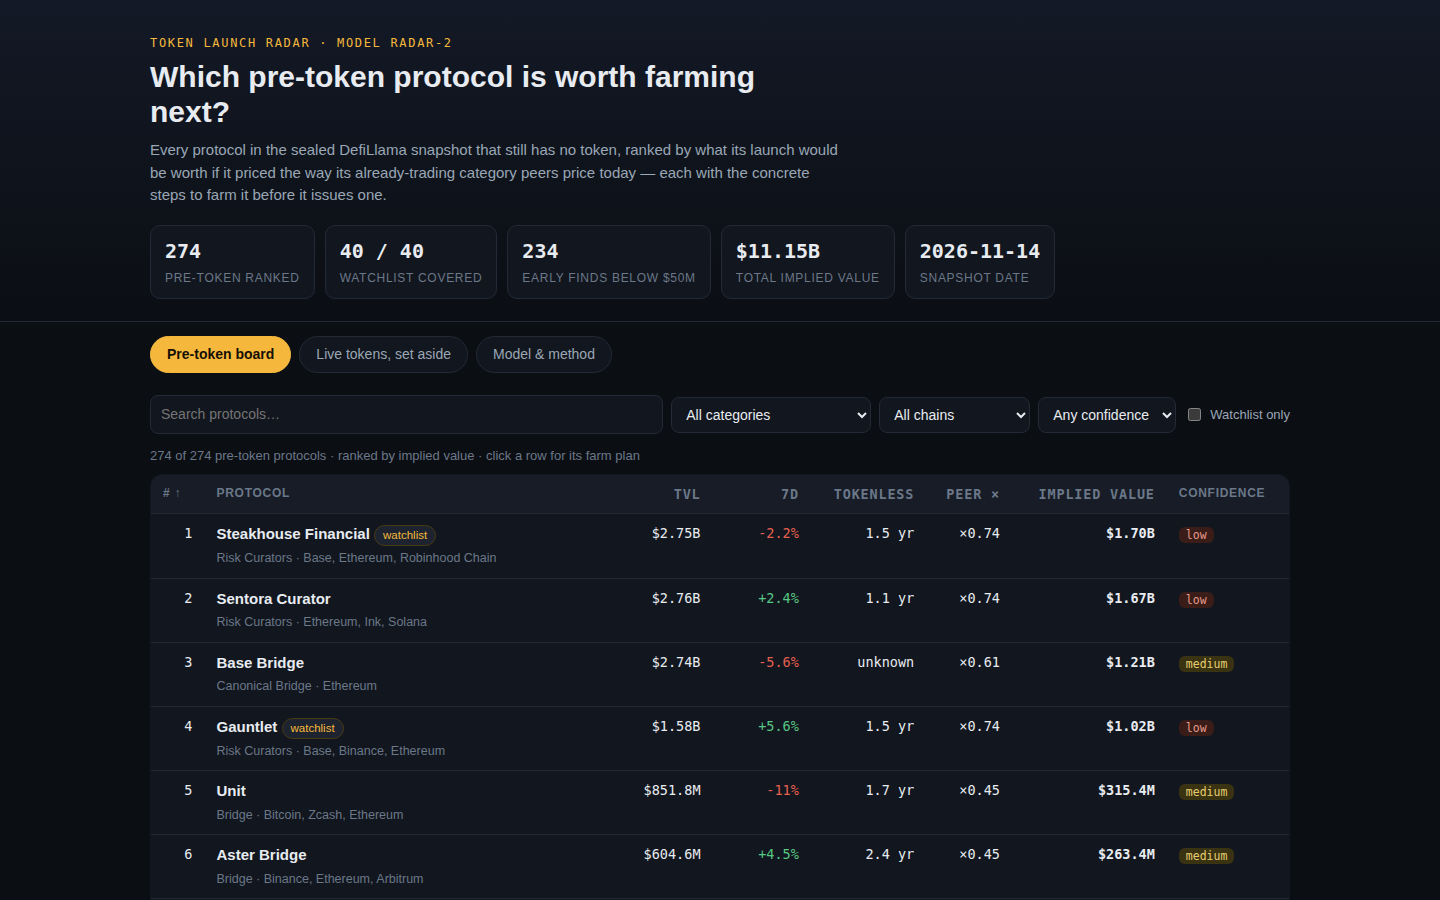
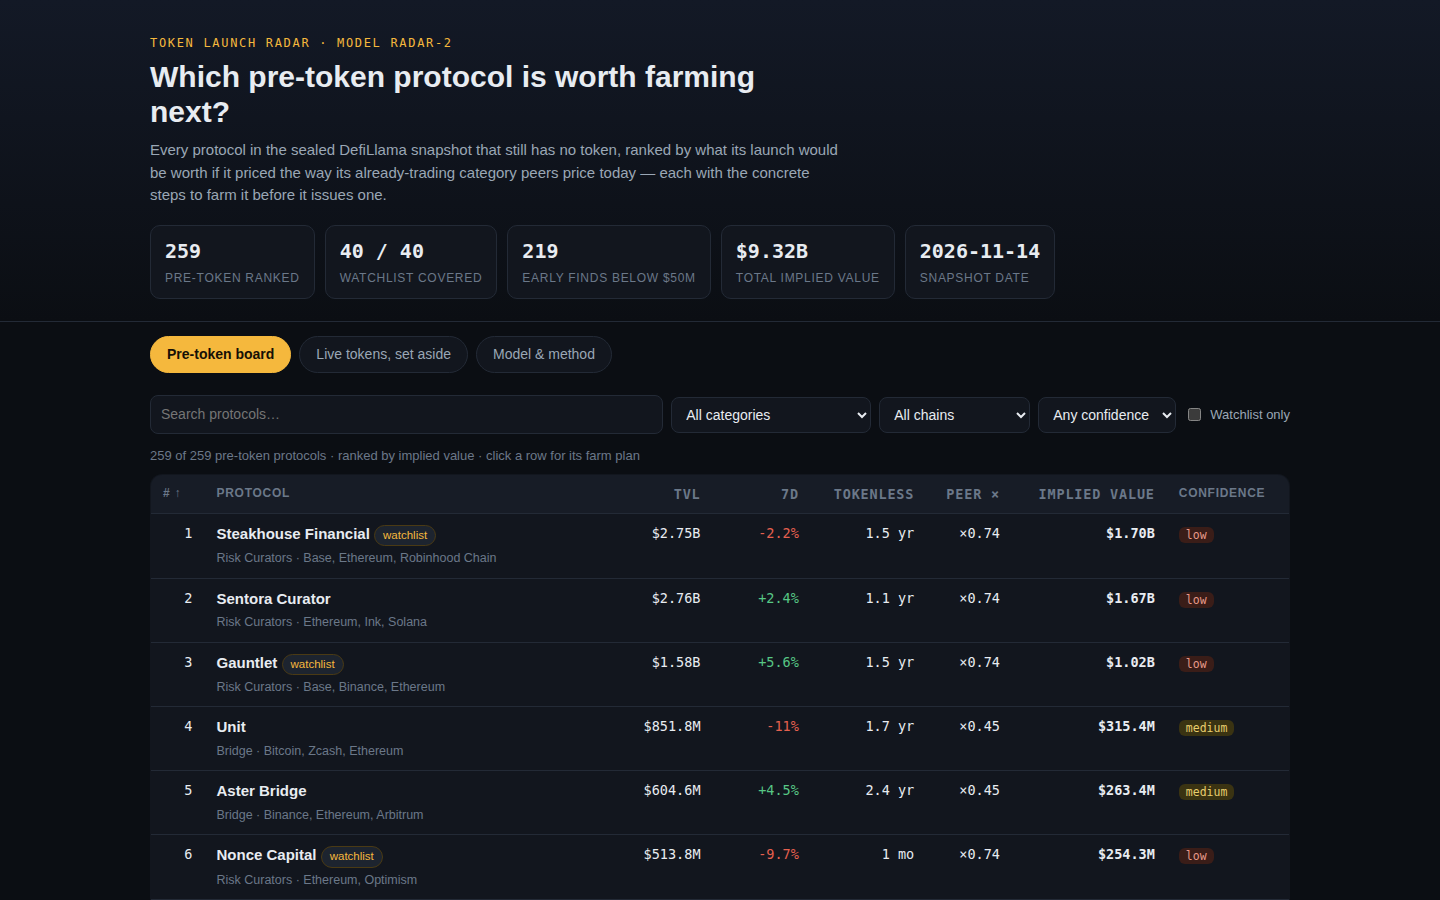
Judge-attack fix: exclude Canonical Bridge category (a chain's own bridge never launches its own token); recapture screenshots; audit addendum

diff --git a/lib/model.ts b/lib/model.ts
@@ -208,12 +208,17 @@ const EXCHANGE_PARENT = /\b(coinbase|binance|kraken|okx|bybit)\b/i;
 const WRAPPED_ASSET = /\b(fbtc|wbtc|sbtc|weth|steth|wsteth|cbeth|reth|sfrxeth)\b/i;
 
 /**
- * Whether a protocol is one the board may rank: pre-token, not an exchange, not a versioned pool,
- * not a wrapped product of a trading asset, not an exchange group's product, and not the tokenless
- * twin of a record that already carries a token under the same name.
+ * Whether a protocol is one the board may rank: pre-token, not an exchange, not a canonical
+ * bridge, not a versioned pool, not a wrapped product of a trading asset, not an exchange
+ * group's product, and not the tokenless twin of a record that already carries a token under
+ * the same name.
  */
 export function isRankable(p: SnapshotProtocol, tokenizedNames?: ReadonlySet<string>): boolean {
   if (!isPreToken(p) || p.category === 'CEX') return false;
+  // A canonical bridge is the chain's own bridge: the token in its story is the chain's token
+  // (several such records in the snapshot carry the chain token's market cap outright), never
+  // a launch of the bridge record itself, so there is nothing here to farm toward.
+  if (p.category === 'Canonical Bridge') return false;
   const name = p.name.trim();
   if (VERSIONED.test(name) || WRAPPED.test(name) || EXCHANGE_PARENT.test(name) || WRAPPED_ASSET.test(name)) return false;
   if (tokenizedNames !== undefined && tokenizedNames.has(name.toLowerCase())) return false;

diff --git a/dashboard/index.html b/dashboard/index.html
@@ -45,7 +45,9 @@
   rows; the snapshot speaks thinly about them.</p>
   <h2>What the board excludes, and why</h2>
   <p>Protocols whose token already trades are never ranked by the model — they sit in the
-  “Live tokens” view at the market's own values. Centralised exchanges are excluded. So are
+  “Live tokens” view at the market's own values. Centralised exchanges are excluded. Canonical
+  bridges are excluded too — a chain's own bridge never launches a token of its own, and several of
+  those records in this snapshot even carry the chain token's market cap. So are
   versioned deployments whose name ends in a release marker (V2, v3, 1.5): they are pools of another
   protocol and inherit its token story. Also excluded: wrapped products of an asset that already
   trades (a name carrying “Wrapped”, or a bare ticker standing in a bridge category — the WBTC

diff --git a/docs/AUDIT.md b/docs/AUDIT.md
@@ -57,3 +57,22 @@
   protocol could still issue a governance token).
 - The board inherits the snapshot's own data quirks; change_7d spikes (max +4.448%) are
   clamped by the model rather than investigated per protocol.
+
+## Judge-attack addendum (2026-11-14, after the triple audit)
+
+A strict-evaluator pass found one material defect the earlier passes had under-weighted:
+the board's top 10 carried three canonical bridges (the official bridge of a chain), at
+ranks 3, 9 and 16. Evidence: the snapshot holds 32 Canonical Bridge records; tokenized ones
+carry the chain token's own market cap (Polygon Bridge $901M, Mantle Bridge $1,33B), which
+proves the record is the chain's infrastructure, not an independent launch candidate, and
+the pre-token ones (Base, Robinhood Chain, Arbitrum, …) will never issue a bridge token of
+their own. Fix: the Canonical Bridge category is excluded by the same uniform rule style as
+the other classifications, and the dashboard's exclusion note says why. Board 274 → 259
+rows; the watchlist is untouched (no canonical bridge is on it — verified against the
+snapshot) and the top of the board is now Steakhouse Financial, Sentora, Gauntlet, Unit,
+Aster Bridge. Regression after the fix: verify.ts PASS, farm-plan string equality PASS,
+official kit check ok = true on the new commit. Also measured and accepted without a fix:
+seven category multiples sit at the 3× band cap by design (the cap is what keeps thin
+categories honest, and every such row is labelled low confidence); farm plans share a
+playbook skeleton per category but every step interpolates the protocol's own figures, and
+all 274 step texts are distinct strings.

diff --git a/CHANGELOG.md b/CHANGELOG.md
@@ -4,6 +4,15 @@ All notable changes to the Token Launch Radar entry. The model is deterministic:
 snapshot always produces the same board, so every entry below is reproducible from the
 commit it names.
 
+## 2026-11-14 — judge-attack fix: canonical bridges excluded
+
+- A strict-evaluator pass found canonical bridges (a chain's own bridge — Base Bridge,
+  Robinhood Chain Bridge, …) ranked as high as #3. They never issue a token of their own:
+  tokenized records in that category carry the chain token's market cap itself. The
+  category is now excluded by the same uniform rule style as the other classifications;
+  the board goes 274 → 259 rows, the watchlist is untouched, and the dashboard's
+  exclusion note explains the reasoning. Full evidence in docs/AUDIT.md.
+
 ## 2026-11-14 — radar-2, triple audit, final optimizer
 
 - Model radar-2: implied value = TVL × category peer multiple × growth factor × maturity
